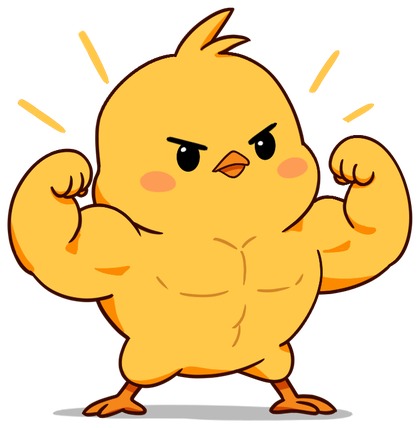
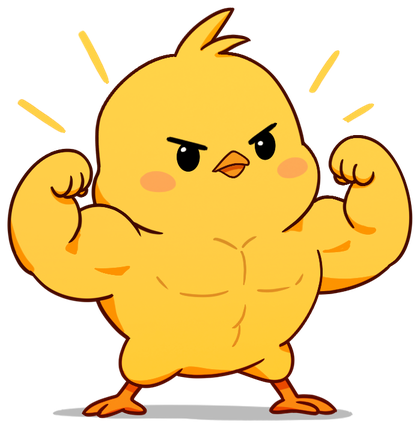
Bêta : poussin musclé corrigé

Changed region(s): [[0.4024, 0.7593, 0.8048, 0.972], [0.1857, 0.7593, 0.4024, 0.972], [0.4952, 0.0607, 0.5262, 0.0911]]

diff --git a/beta/sw.js b/beta/sw.js
@@ -1,5 +1,5 @@
 /* Tonnup — service worker : l'app marche hors ligne et se met à jour toute seule. */
-const CACHE = "tonnup-beta-v10-20260921-2214";
+const CACHE = "tonnup-beta-v10-20260921-2216";
 const ASSETS = ["./", "./index.html", "./manifest.webmanifest", "./confidentialite.html", "./conditions.html", "./icon-192.png", "./icon-512.png", "./apple-touch-icon.png",
   "./img/exos/abducteurs.png",
   "./img/exos/abduction-hanche.png",

diff --git a/beta/index.html b/beta/index.html
@@ -9312,7 +9312,7 @@ function exIcon(ex, sm){
 }
 
 const KEY="tonnage_v1";
-const BUILD = "21 septembre 2026 22h14 · bêta";   /* remplacé par build.ps1 : date et heure de la construction */
+const BUILD = "21 septembre 2026 22h16 · bêta";   /* remplacé par build.ps1 : date et heure de la construction */
 
 const MARK = "tonnage_marker";
 /* diagnostic : que survit-il entre deux ouvertures ? */
